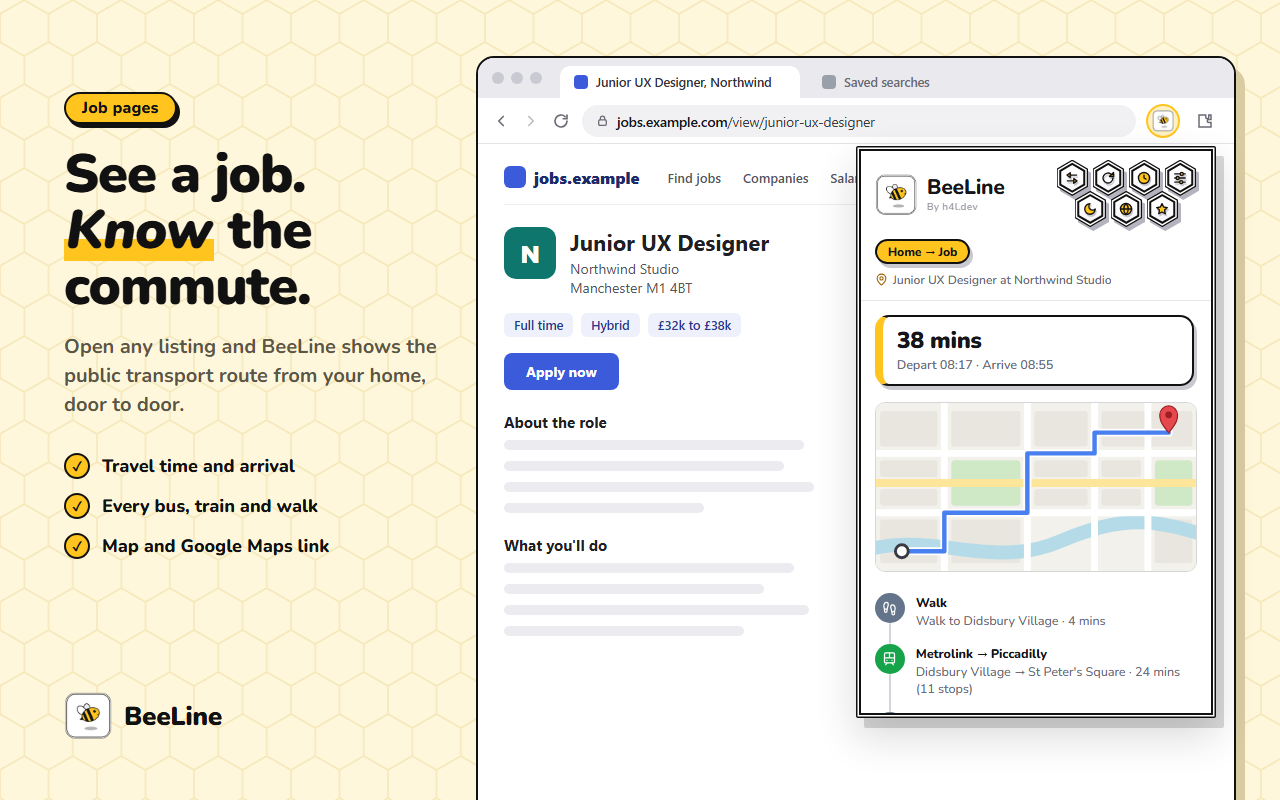
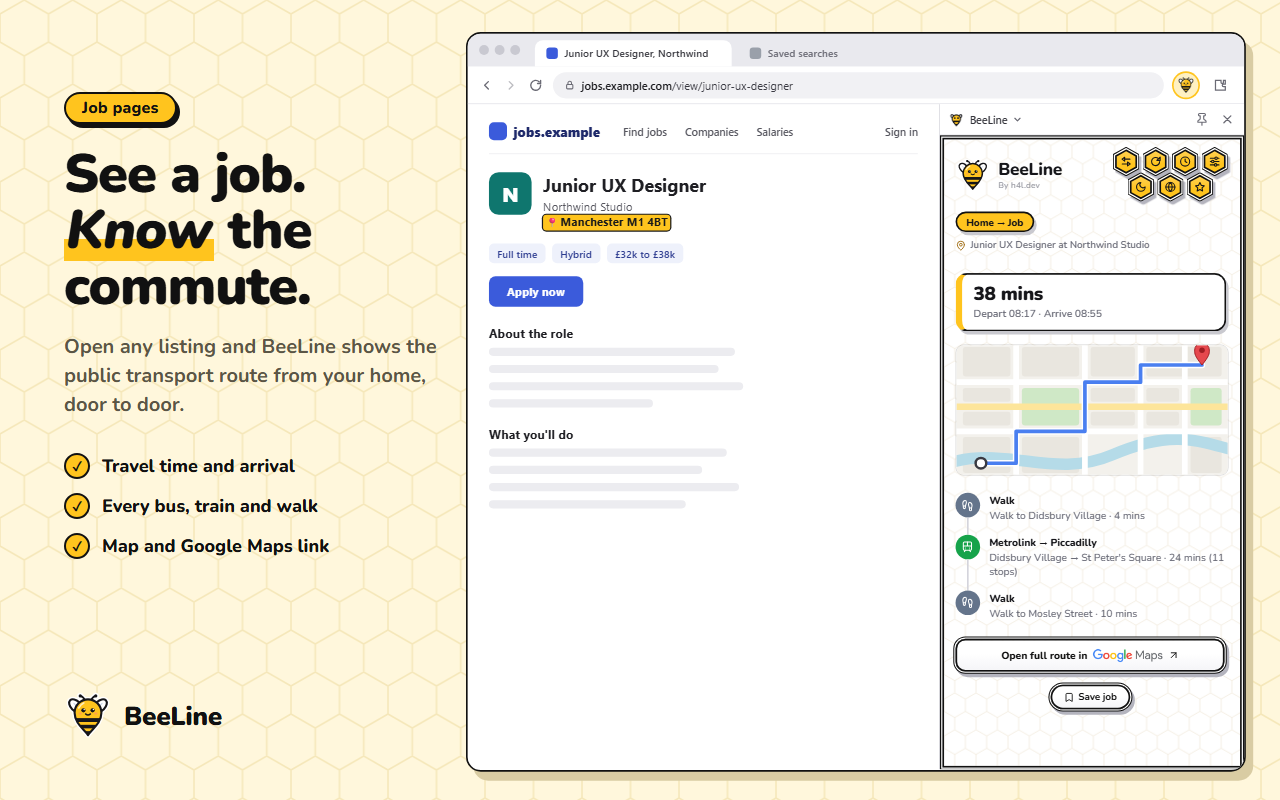
Update the site gallery with the new side panel screenshots.

diff --git a/docs/index.html b/docs/index.html
@@ -303,9 +303,9 @@
       </div>
     </div>
     <div class="shots-track" tabindex="0" role="region" aria-label="BeeLine screenshots">
-      <figure class="shot is-active"><img src="screenshots/screenshot-1.png" width="1280" height="800" alt="A job listing with the BeeLine popup showing a 38 minute tram route from home, with a map and each step." /></figure>
+      <figure class="shot is-active"><img src="screenshots/screenshot-1.png" width="1280" height="800" alt="A job listing with the BeeLine side panel showing a 38 minute tram route from home, with a map and each step." /></figure>
       <figure class="shot"><img src="screenshots/screenshot-2.png" width="1280" height="800" alt="Place names highlighted on a job listing; clicking one shows the bus route there." loading="lazy" /></figure>
-      <figure class="shot"><img src="screenshots/screenshot-3.png" width="1280" height="800" alt="Two popups side by side: the morning trip to work and the evening trip home." loading="lazy" /></figure>
+      <figure class="shot"><img src="screenshots/screenshot-3.png" width="1280" height="800" alt="Two BeeLine panels side by side: the morning trip to work and the evening trip home." loading="lazy" /></figure>
       <figure class="shot"><img src="screenshots/screenshot-4.png" width="1280" height="800" alt="The job history list, with travel times for recently viewed and saved jobs." loading="lazy" /></figure>
       <figure class="shot"><img src="screenshots/screenshot-5.png" width="1280" height="800" alt="Colour themes in light and dark mode, next to the settings page." loading="lazy" /></figure>
     </div>
